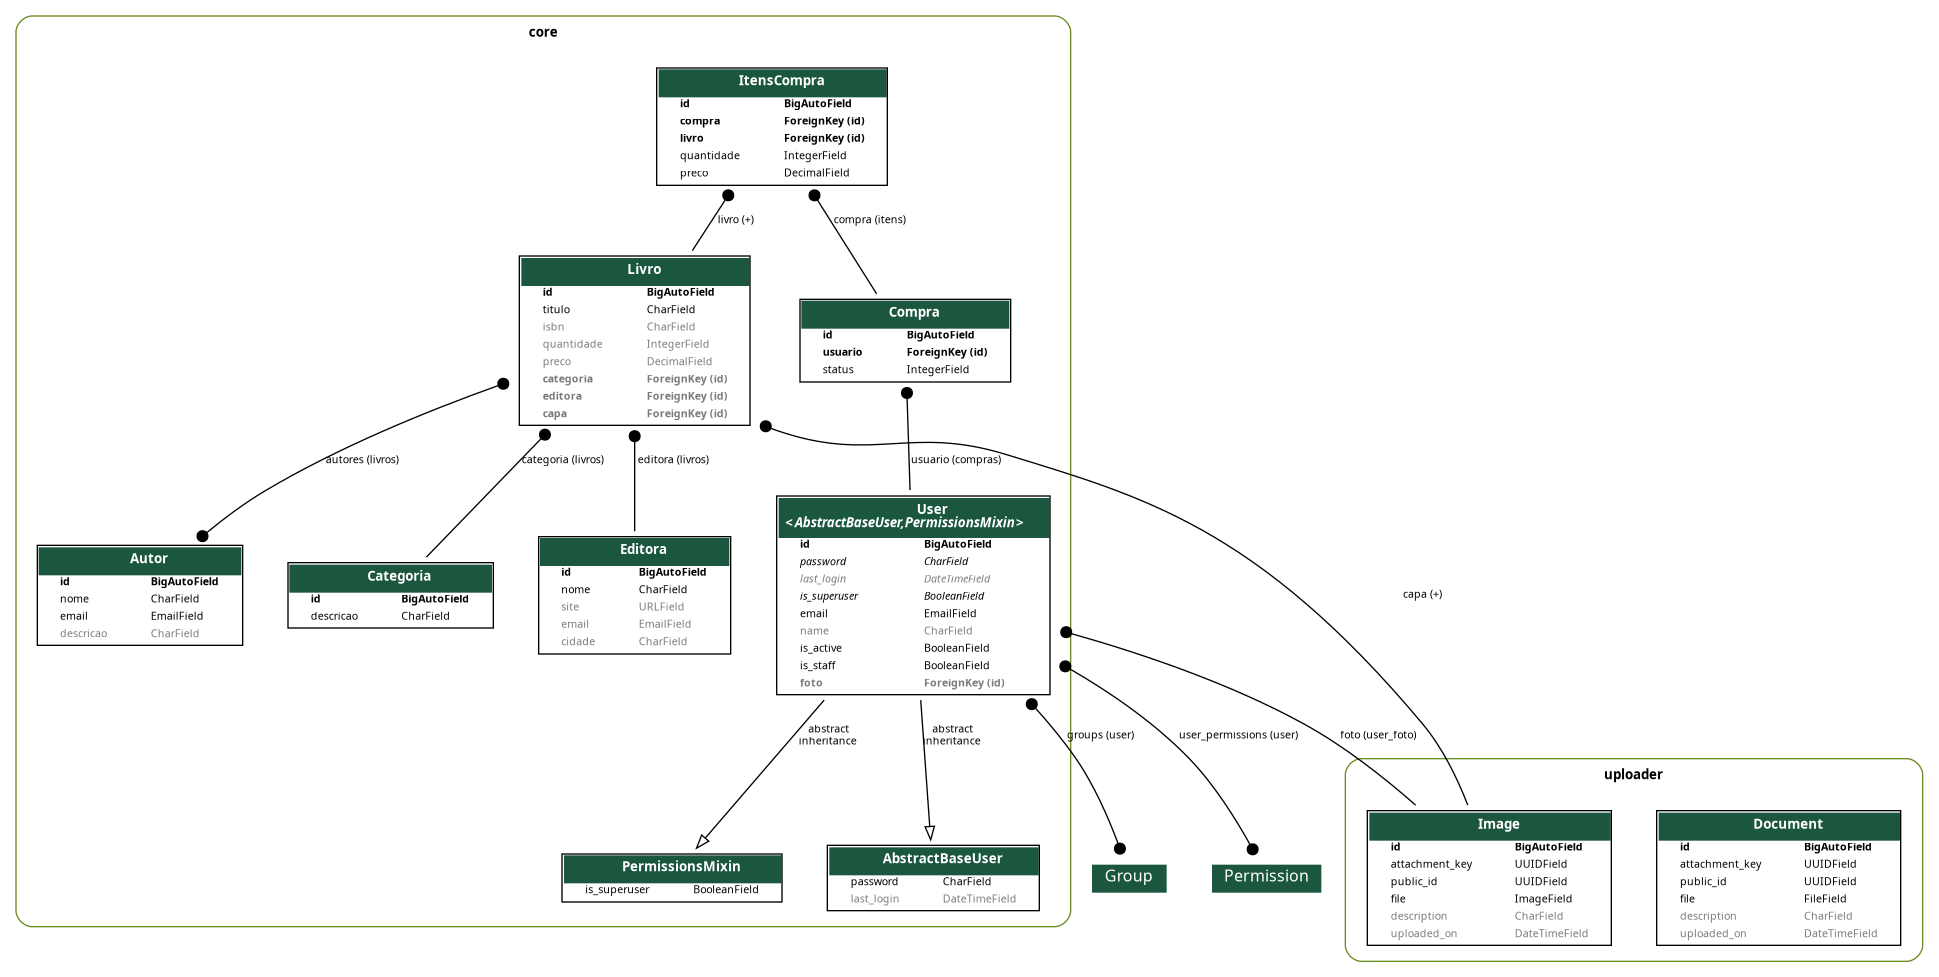
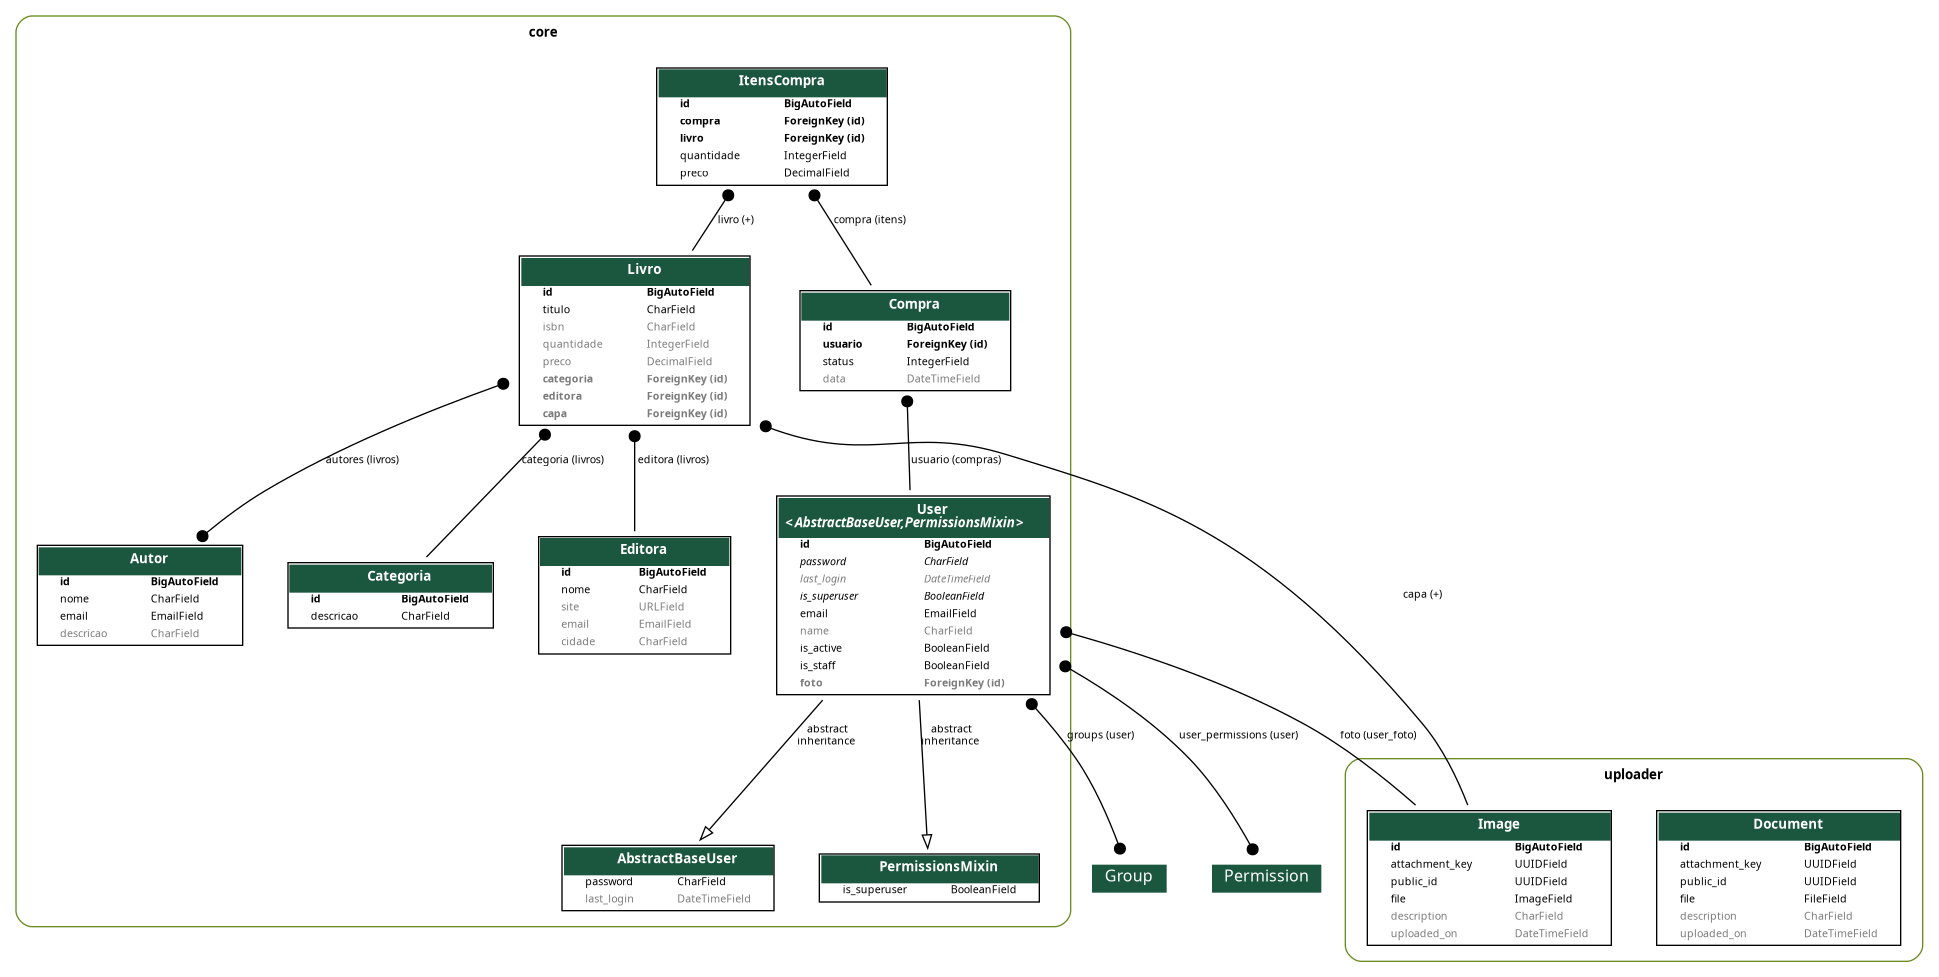
feat: registrando a data da compra

diff --git a/core/serializers/compra.py b/core/serializers/compra.py
@@ -2,6 +2,7 @@ from django.db import transaction
 from rest_framework.serializers import (
     CharField,
     CurrentUserDefault,
+    DateTimeField,
     HiddenField,
     ModelSerializer,
     SerializerMethodField,
@@ -94,6 +95,7 @@ class CompraListSerializer(ModelSerializer):
 class CompraSerializer(ModelSerializer):
     usuario = CharField(source='usuario.email', read_only=True)
     status = CharField(source='get_status_display', read_only=True)
+    data = DateTimeField(read_only=True)
     itens = ItensCompraSerializer(many=True, read_only=True)
 
     class Meta:
@@ -103,5 +105,6 @@ class CompraSerializer(ModelSerializer):
             'usuario',
             'status',
             'total',
+            'data',
             'itens',
         )

diff --git a/core/admin.py b/core/admin.py
@@ -30,13 +30,13 @@ class ItensCompraInline(StackedInline):
 
 @register(Compra)
 class CompraAdmin(ModelAdmin):
-    list_display = ('usuario', 'status', 'total_formatado')
-    ordering = ('usuario', 'status')
+    list_display = ('usuario', 'status', 'total_formatado', 'data')
+    ordering = ('usuario', 'status', 'data')
     list_per_page = 10
     inlines = [ItensCompraInline]
-    readonly_fields = ("total_formatado",)
+    readonly_fields = ("total_formatado", "data")
     search_fields = ('usuario', 'status')
-    list_filter = ('usuario', 'status')
+    list_filter = ('usuario', 'status', 'data')
     ordering = ('usuario', 'status')
 
     @display(description="Total")

diff --git a/core/migrations/0023_compra_data.py b/core/migrations/0023_compra_data.py
@@ -1,0 +1,20 @@
+# Generated by Django 5.2.13 on 2026-09-22 17:08
+
+import django.utils.timezone
+from django.db import migrations, models
+
+
+class Migration(migrations.Migration):
+
+    dependencies = [
+        ('core', '0022_itenscompra_preco'),
+    ]
+
+    operations = [
+        migrations.AddField(
+            model_name='compra',
+            name='data',
+            field=models.DateTimeField(auto_now_add=True, default=django.utils.timezone.now),
+            preserve_default=False,
+        ),
+    ]

diff --git a/core/models/compra.py b/core/models/compra.py
@@ -13,6 +13,7 @@ class Compra(models.Model):
 
     usuario = models.ForeignKey(User, on_delete=models.PROTECT, related_name='compras')
     status = models.IntegerField(choices=StatusCompra.choices, default=StatusCompra.CARRINHO)
+    data = models.DateTimeField(auto_now_add=True)
 
     @property
     def total(self):
